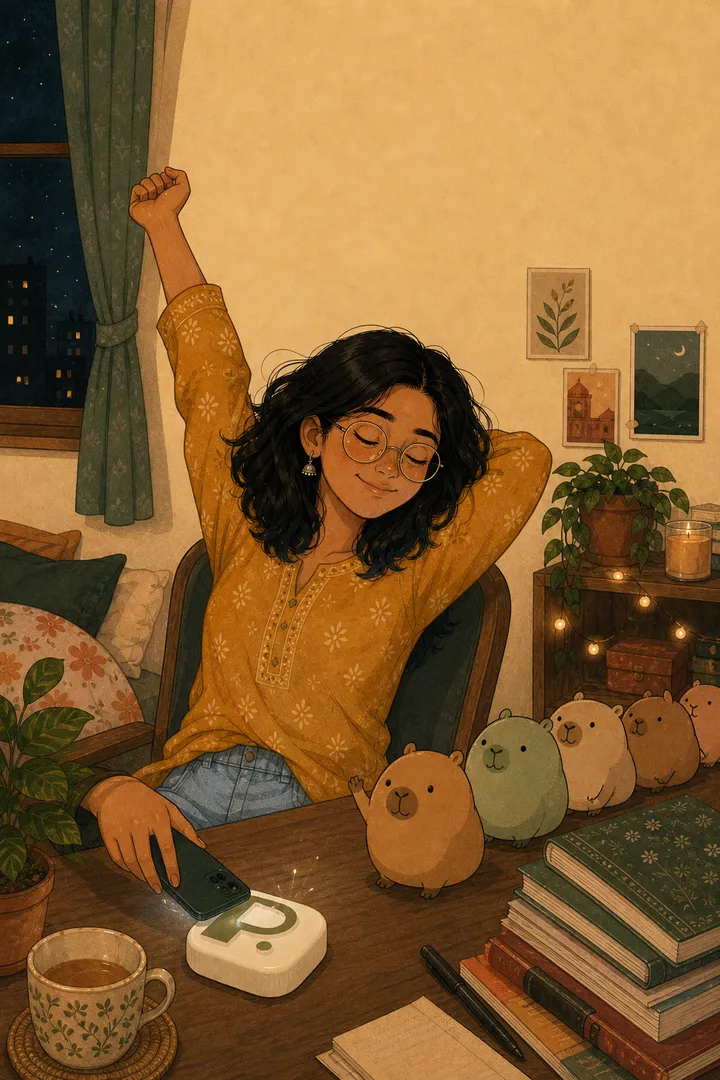
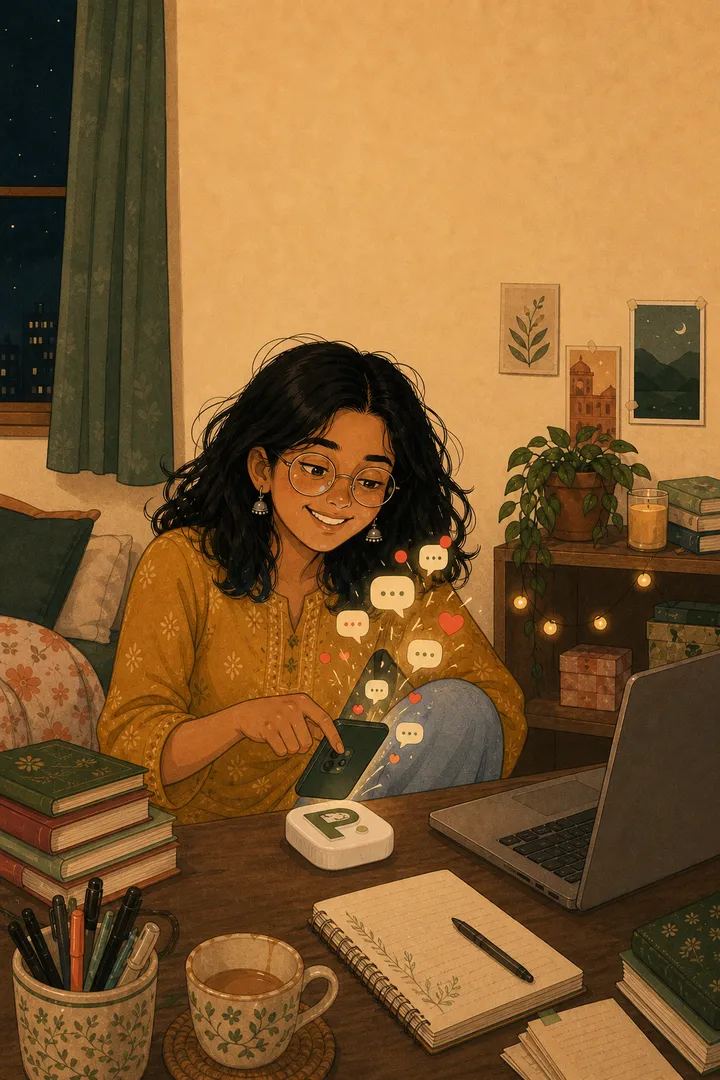
Story card 5: tap again, notifications pop back out of the phone
Claude-Session: https://claude.ai/code/session_01A2CDd1HbkHA24vdiLtybSe

diff --git a/story.js b/story.js
@@ -24,7 +24,7 @@
     c.innerHTML = s.end
       ? `<p class="sv-h">Your turn.</p><p class="sv-l">Tap to focus. Tap to come back.</p>
          <a class="sv-cta" href="#">Pre-order ₹1,999</a><button class="sv-again" type="button">Watch again</button>`
-      : `<img src="assets/story/${s.img}.webp?v=2" alt="" loading="${i < 2 ? 'eager' : 'lazy'}" draggable="false">
+      : `<img src="assets/story/${s.img}.webp?v=3" alt="" loading="${i < 2 ? 'eager' : 'lazy'}" draggable="false">
          <div class="sv-text"><span class="sv-chip">${s.chip}</span><p class="sv-h">${s.h}</p><p class="sv-l">${s.l}</p></div>`;
     track.appendChild(c);
     return c;

diff --git a/index.html b/index.html
@@ -57,6 +57,6 @@
 } }
 </script>
 <script type="module" src="app.js?v=4"></script>
-<script src="story.js?v=3"></script>
+<script src="story.js?v=4"></script>
 </body>
 </html>
